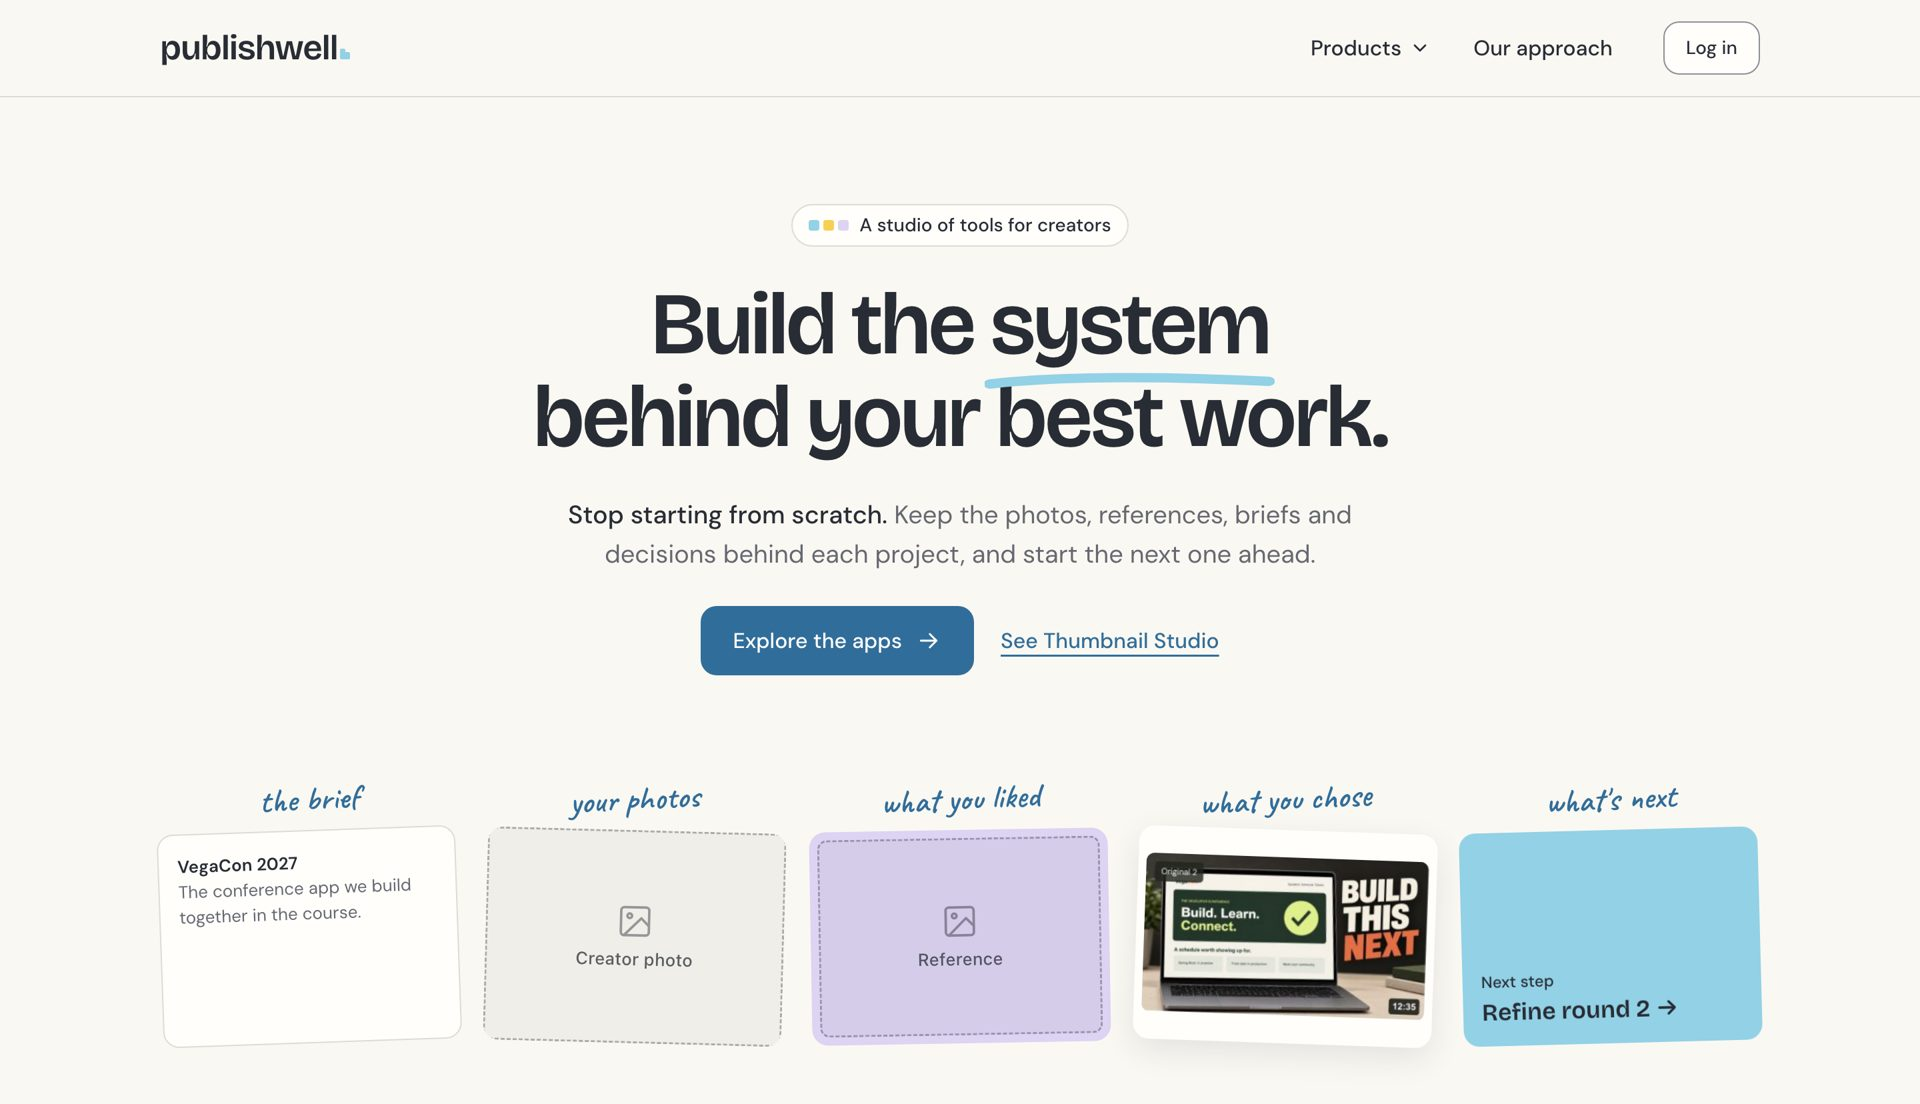
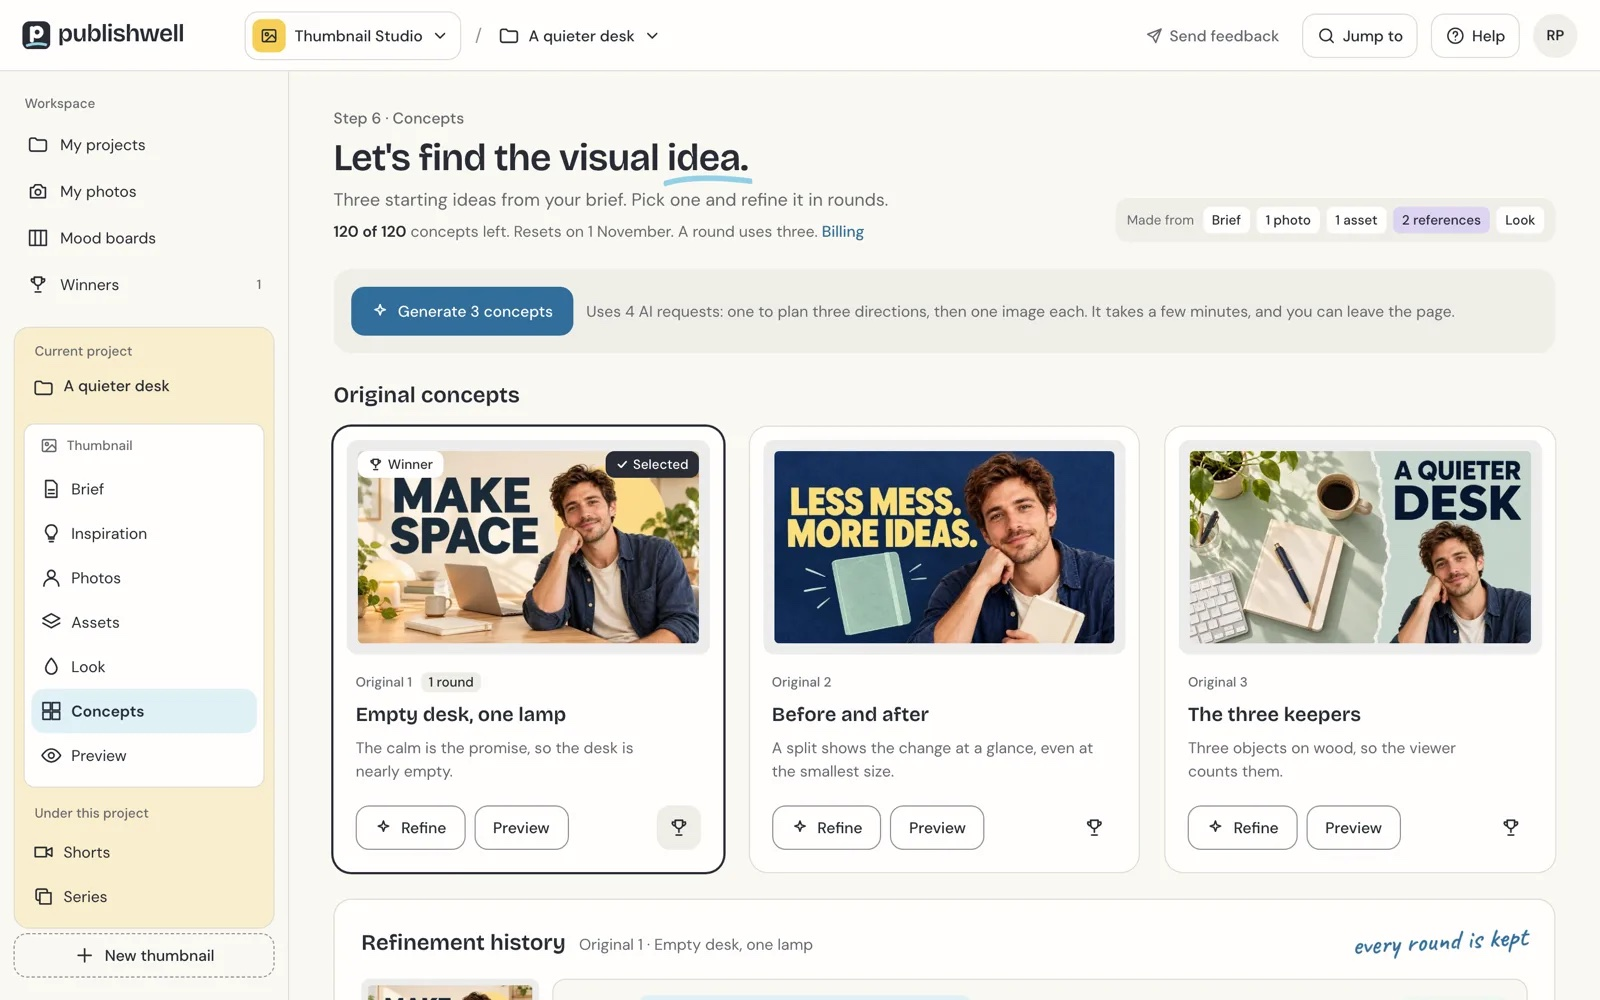
Show Publishwell in early access on the projects page
Publishwell went live on 1 November 2026. Signup is invite-only, so the
page points to the waitlist.

- Add an "Early access" status and give Publishwell a link to
  publishwell.studio labeled "Join the waitlist".
- Name all four apps in the story and update the tagline and stats.
- Swap the old homepage shot for a Thumbnail Studio screenshot.
- Let a project set its own link label (urlLabel).
- Widen the status column so "Early access" fits on one line.
- Fix the book link. www.fundamentalsofswe.com has no DNS record.

diff --git a/app/data/projects.ts b/app/data/projects.ts
@@ -31,22 +31,24 @@ export const projects: Project[] = [
     title: 'Publishwell',
     group: 'apps',
     icon: 'publishwell.svg',
-    tagline: 'A studio of tools for creators. Stop starting from scratch.',
-    description: 'Focused apps for the work around creating, sharing one account so what you save in one app helps in the next.',
+    tagline: 'A studio of tools for creators.',
+    description: 'Four apps that work together and share one account, so what you save in one app helps in the next.',
     image: 'publishwell.jpg',
     frame: 'browser',
     frameLabel: 'publishwell.studio',
     since: '2026',
     story: {
       why: 'Creators handle the creative work and every production task around it. Photos, references, drafts, and plans end up scattered. So every new project starts from scratch.',
-      built: 'A suite of focused apps that share one account and one database. Thumbnail Studio comes first. Publishing Pipeline, Scheduler, and Sponsors are next. It replaces Content OS, the private app I built just for me.'
+      built: 'Four apps that share one account. Thumbnail Studio makes thumbnail concepts from your brief, photos, and references. Pipeline helps you plan, make, and ship each video. Scheduler turns a published video into a campaign of social posts. Sponsors tracks your sponsor deals and the checks on each video. It replaces Content OS, the private app I built just for me. It is in early access now, and you can join the waitlist.'
     },
     stats: [
-      { label: 'Commits', value: '627' },
+      { label: 'Commits', value: '686' },
       { label: 'Apps', value: '4' }
     ],
     techStack: ['Spring Boot 4', 'Java', 'Spring Modulith', 'PostgreSQL'],
-    status: 'in-progress'
+    url: 'https://publishwell.studio',
+    urlLabel: 'Join the waitlist',
+    status: 'early-access'
   },
   {
     slug: 'pressworks',
@@ -138,7 +140,7 @@ export const projects: Project[] = [
       { label: 'Publisher', value: 'O\'Reilly' }
     ],
     techStack: [],
-    url: 'https://www.fundamentalsofswe.com',
+    url: 'https://fundamentalsofswe.com',
     post: { title: 'The Fundamentals of Software Engineering is now Available', url: '/newsletter/2025/12/09/fundamentals-of-software-engineering' },
     status: 'active'
   },
@@ -286,6 +288,7 @@ export const projects: Project[] = [
 export const statusLabels: Record<string, string> = {
   active: 'Active',
   'in-progress': 'In progress',
+  'early-access': 'Early access',
   archived: 'Retired'
 }
 

diff --git a/app/pages/projects.vue b/app/pages/projects.vue
@@ -28,6 +28,7 @@ const inProgress = projects.filter(p => p.status === 'in-progress').length
 const statusDots: Record<string, string> = {
   active: 'bg-green-500',
   'in-progress': 'bg-yellow-500',
+  'early-access': 'bg-blue-500',
   archived: 'bg-zinc-400 dark:bg-zinc-500'
 }
 
@@ -148,7 +149,7 @@ function step(offset: number) {
                 </p>
               </div>
               <p class="font-mono text-sm tabular-nums text-zinc-500 max-sm:hidden">{{ project.since }}</p>
-              <p class="flex w-28 items-center gap-2 font-mono text-sm text-zinc-600 dark:text-zinc-400 max-md:hidden">
+              <p class="flex w-32 items-center gap-2 font-mono text-sm text-zinc-600 dark:text-zinc-400 max-md:hidden">
                 <span class="size-2 shrink-0 rounded-full" :class="statusDots[project.status ?? 'active']" />
                 {{ statusLabels[project.status ?? 'active'] }}
               </p>

diff --git a/app/components/projects/ProjectLinks.vue b/app/components/projects/ProjectLinks.vue
@@ -25,7 +25,7 @@ const isExternal = (url: string) => url.startsWith('http')
       :rel="isExternal(project.url) ? 'noopener noreferrer' : undefined"
       class="text-zinc-600 dark:text-zinc-400 hover:text-blue-600 dark:hover:text-blue-400"
     >
-      {{ mono ? './visit' : 'Visit site' }} <span aria-hidden="true">&nearr;</span>
+      {{ mono ? './visit' : project.urlLabel ?? 'Visit site' }} <span aria-hidden="true">&nearr;</span>
     </a>
     <a
       v-if="project.github"

diff --git a/app/types/ui.ts b/app/types/ui.ts
@@ -63,8 +63,10 @@ export interface Project {
   techStack: string[]
   github?: string
   url?: string
+  // Text for the url link. Defaults to 'Visit site'.
+  urlLabel?: string
   post?: { title: string; url: string }
-  status?: 'active' | 'in-progress' | 'archived'
+  status?: 'active' | 'in-progress' | 'early-access' | 'archived'
   // Slug of the project that replaced this one
   successor?: string
 }

diff --git a/app/components/projects/ProjectModal.vue b/app/components/projects/ProjectModal.vue
@@ -28,6 +28,7 @@ function onKeydown(event: KeyboardEvent) {
 const statusDots: Record<string, string> = {
   active: 'bg-green-500',
   'in-progress': 'bg-yellow-500',
+  'early-access': 'bg-blue-500',
   archived: 'bg-zinc-400 dark:bg-zinc-500'
 }
 </script>
